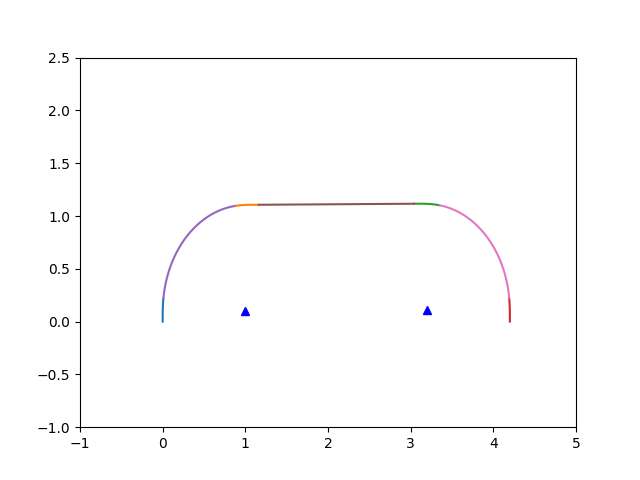
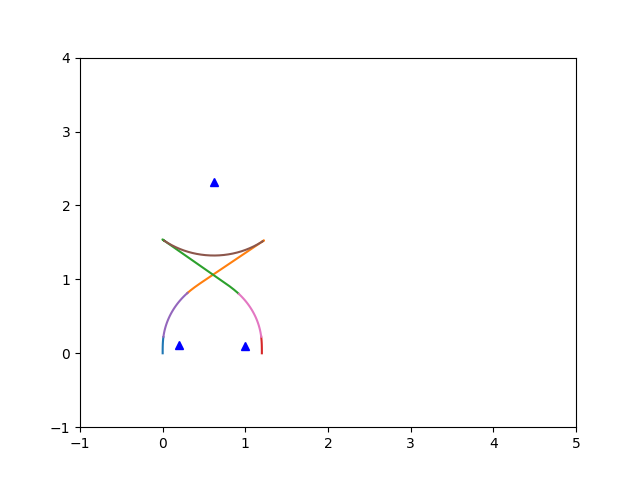
linefix for revese segments

diff --git a/BackmanAlgorithm/SmoothPlanner.py b/BackmanAlgorithm/SmoothPlanner.py
@@ -270,8 +270,8 @@ class SmoothPathPlanner:
                 trajectories = self.makeTrajectoriesEqualLength(K_S22,v_S22, False)
                 self.cut_v_S2 = trajectories['cutV']
                 v_C21 = trajectories['leftover']
-                v_S2 = np.append(v_S21, trajectories['vTraj'])
-                K_S2 = np.append(K_S21, trajectories['kTraj'])
+                v_S2 = np.append(v_S21, trajectories['vTraj'], axis = 0)
+                K_S2 = np.append(K_S21, trajectories['kTraj'], axis = 0)
                 self.S2 = SpiralSegment(K_S2, v_S2, xo, self.dT)
             else:
                 K_S2 = self.generateCurvatureTrajectory(self.k_C1, self.k_C2)
@@ -303,13 +303,13 @@ class SmoothPathPlanner:
                 
                 if len(v_S32) > len(K_S32):
                     diff = len(v_S32) - len(K_S32)
-                    K_S32 = np.append(np.zeros(diff), K_S32)
+                    K_S32 = np.append(np.zeros(diff), K_S32, axis = 0)
                 elif len(v_S32) < len(K_S32):
                     diff = len(K_S32) - len(v_S32)
-                    v_S32 = np.append(np.zeros(diff),v_S32)
+                    v_S32 = np.append(np.zeros(diff),v_S32, axis = 0 )
 
-                v_S3 = np.append(v_S31, v_S32)
-                K_S3 = np.append(K_S31, K_S32)
+                v_S3 = np.append(trajectories['vTraj'], v_S32, axis = 0)
+                K_S3 = np.append(trajectories['kTraj'], K_S32, axis = 0)
 
                 self.S3 = SpiralSegment(K_S3, v_S3, xo, self.dT)
             else:
@@ -343,7 +343,7 @@ class SmoothPathPlanner:
                 self.S3.rotateAboutPoint(self.omega_kplus2[0], self.omega_kplus2[1], rotAngle)
 
                 ################ make C2 segment ################
-                self.C2 = C2ArcSegment(self.k_C2, v_C21, v_C22, self.S2.poses[-1], self.S3.poses[0], self.omega_kplus1, self.dT)
+                self.C2 = C2ArcSegment(self.k_C2, v_C21, v_C22, self.S2.poses[-1], self.S3.poses[0], self.omega_kplus1, self.reverse, self.dT)
 
             else: #center is a line
 
@@ -405,7 +405,7 @@ class SmoothPathPlanner:
         #     plt.arrow(self.S4.poses[i][0], self.S4.poses[i][1], 0.1*cos(self.S4.poses[i][2]), 0.1*sin(self.S4.poses[i][2]), length_includes_head = True, width = 0.01, head_width = 0.03, color = 'r', alpha = 0.5)
 
         plt.xlim([-1, 5])
-        plt.ylim([-1, 2.5])
+        plt.ylim([-1, 4])
         plt.savefig("trajectory.png")
 
         return self.path
@@ -415,7 +415,7 @@ def main():
 
     # x pos., ypos., orientation, speed, curvature
     initialState = SmoothPathState(0, 0, 0.5*np.pi, 1, 0)
-    finalState = SmoothPathState(4.2, 0, -0.5*np.pi, 1, 0)
+    finalState = SmoothPathState(1.2, 0, -0.5*np.pi, 1, 0)
     L_w = 1.0
     gamma_max = np.pi/4.0
     
@@ -453,7 +453,7 @@ def main():
 
     planSmoothInst = SmoothPathPlanner()
 
-    pathType = RSR
+    pathType = R1L1R
     planSmoothInst.setConstraints(
         kConstraints, vConstraints, headlandSpeed, headlandSpeedReverse)
     planSmoothInst.setNominalCurvatures(

diff --git a/BackmanAlgorithm/PathSegment.py b/BackmanAlgorithm/PathSegment.py
@@ -192,7 +192,7 @@ class CCSegment(PathSegment):
 
 class C2ArcSegment(PathSegment):
 
-    def __init__(self, curvature, v1, v2, start, end, center, dT):
+    def __init__(self, curvature, v1, v2, start, end, center, reverse, dT):
         """
         Generates the center C2 segment from start to end coordinates, with given curvature, center of rotation and speed profile. 
 
@@ -208,6 +208,10 @@ class C2ArcSegment(PathSegment):
         
         ang1 = np.arctan2(start[1]-center[1],start[0]-center[0])
         ang2 = np.arctan2(end[1]-center[1], end[0]-center[0])
+
+        if reverse:
+            ang1, ang2 = ang2, ang1
+            
         r = np.linalg.norm(start[0:2]-center)
 
         if(curvature > 0 and ang2 < ang1):
@@ -217,7 +221,7 @@ class C2ArcSegment(PathSegment):
             ang2 = ang2 - 2*np.pi
 
         arcLen = r*np.abs(ang2-ang1)
-        maxTimeToTraverse = arcLen/np.amin(np.append(v1,v2)) #TODO: change this to average
+        maxTimeToTraverse = arcLen/np.amin(np.abs(np.append(v1,v2))) #TODO: change this to average
         maxStepsToTraverse = int(maxTimeToTraverse/dT) + 1
 
         self.poses = np.zeros([maxStepsToTraverse,3])
